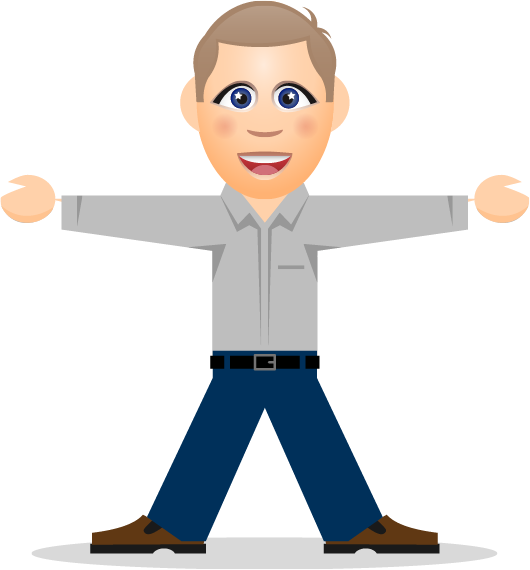
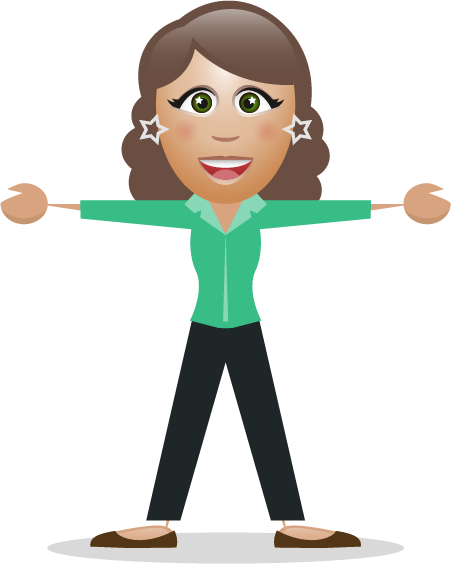
hierarchy fixes

diff --git a/index.html b/index.html
@@ -45,9 +45,9 @@
           <h1>Vide-o-Magic 3000</h1>
 
           <div class="question">
-            <h3>Instructions</h3>
+            <h4>Instructions</h4>
             <p>Fill out this form to the best of your knowledge. If you're not sure about a response, leave the field blank and contact your client services representative. We'll use your responses to create a <a href="#">custom educational video</a> for
-              your study.
+              your study.</p>
           </div>
         </header>
 
@@ -63,12 +63,12 @@
 
             <div class="question">
               <section class="uploads">
-                <h3>Uploads</h3>
+                <h2>Uploads</h2>
                 <p>Upload a high resolution study logo image.</p>
                 <p>Acceptable file types are JPG, GIF, PNG, SVG and EPS. <i class="material-icons">help</i></p>
                 <div class="image-upload" />
-                <p class="drag">Drag an image here or <a href="#">browse</a> for an image to upload.</div>
-            </p>
+                <p class="drag">Drag an image here or <a href="#">browse</a> for an image to upload.</p>
+            </div>
             <p>Upload a photo of the study drug(s).</p>
             <div class="image-upload" />
             <p class="drag">Drag an image here or <a href="#">browse</a> for an image to upload.</p>
@@ -81,7 +81,7 @@
         –––––––––––––––––––––––––––––––––––––––––––––––––– -->
 
     <div class="question">
-      <h3>Character Selection</h3>
+      <h2>Character Selection</h2>
       <section class="supastars">
         <p>Select representative doctor and patient characters for your video.</p>
         <p>Doctor gender:</p>
@@ -110,11 +110,11 @@
         <div class="ss-selection-wrapper">
           <div class="ss-selection">
             <input type="radio" name="patient" value="patient-light">
-            <img src="images/patient-light.png" alt="Light-skinned patient" />
+            <img class="female" src="images/patient-light.png" alt="Light-skinned patient" />
           </div>
           <div class="ss-selection">
             <input type="radio" name="patient" value="patient-med">
-            <img src="images/patient-med.png" alt="Medium-skinned patient" />
+            <img class="female" src="images/patient-med.png" alt="Medium-skinned patient" />
           </div>
           <div class="ss-selection">
             <input type="radio" name="patient" value="patient-dk">
@@ -128,73 +128,72 @@
         –––––––––––––––––––––––––––––––––––––––––––––––––– -->
 
     <section class="script">
-      <h2>Video Script</h2>
 
       <!-- Overview
         –––––––––––––––––––––––––––––––––––––––––––––––––– -->
       <div class="question">
-        <h3>Introduction</h3>
+        <h2>Video Script</h2>
+        <h3>Overview</h3>
+        <h4>Introduction</h4>
         <p class="script">Hi. This iPad is a learning device for people like you who may be interested in participating in clinical research studies. Over the next several minutes, this video will explain the details of a study you’re being invited to take part in, and
           help you make a decision about whether you’d like to participate in the study. You’ll learn about your rights and responsibilities, the required study procedures, and the possible risks and benefits of your participation.</p>
 
-        <h3>Knowledge Review</h3>
+        <h4>Knowledge Review</h4>
         <p>
           Will participants be required to take a knowledge review as a part of the informed consent process?</p>
-        <input type="radio" name="kr" value="yes">Yes
-        <input type="radio" name="kr" value="no">No
-      </div>
+        <p><input type="radio" name="kr" value="yes">Yes
+        <input type="radio" name="kr" value="no">No</p>
 
-      <div class="question">
-        <h3>Sponsor</h3>
+
+        <h4>Sponsor</h4>
         <p class="script">
           This research study is sponsored by
           <input type="text" name="study-sponsor" placeholder="name of study sponsor">.</p>
-      </div>
 
-      <div class="question"><h3>Diagnosis</h3>
-      <p class="script">You’re being invited to take part in this study because
-        <textarea name="diagnosis" placeholder="you have been diagnosed with cystic fibrosis."></textarea></p></div>
 
-      <div class="question"><h3>Purpose</h3>
-      <p class="script">The purpose of this study is to
-        <textarea name="purpose" placeholder="find out about the potential benefits and risks of dectixeze as an add-on treatment for cystic fibrosis."></textarea></p></div>
+        <h4>Diagnosis</h4>
+        <p class="script">You’re being invited to take part in this study because
+          <textarea name="diagnosis" placeholder="you have been diagnosed with cystic fibrosis."></textarea></p>
 
-      <div class="question"><h3>Drug Description</h3>
-      <p class="script"><textarea name="drug-description" placeholder="Dectixeze is an “investigational drug”, which means that it is being researched for FDA approval. This drug is not yet for sale in the United States."></textarea></p></div>
+        <h4>Purpose</h4>
+        <p class="script">The purpose of this study is to
+          <textarea name="purpose" placeholder="find out about the potential benefits and risks of dectixeze as an add-on treatment for cystic fibrosis."></textarea></p>
 
-      <div class="question">
-        <h3>Participants</h3>
-        <p class="script">About</p>
-        <input type="number" name="participants" placeholder="330">participants will take part in this study in the
-        <select name="countries">
-                  <option value="united-states">United States</option>
+        <h4>Drug Description</h4>
+        <p class="script"><textarea name="drug-description" placeholder="Dectixeze is an “investigational drug”, which means that it is being researched for FDA approval. This drug is not yet for sale in the United States."></textarea></p>
+
+
+        <h4>Participants</h4>
+        <p class="script">About <input type="number" name="participants" placeholder="330"> participants will take part in this study in
+          <select name="countries">
+                  <option value="united-states">the United States</option>
                   <option value="india">India</option>
                   <option value="china">China</option>
                   <option value="uk">United Kingdom</option>
-                </select>
-        <a class="add" href="#"><i class="material-icons">add_circle</i></a>
-      </div>
+                </select> .
+          <a class="add" href="#"><i class="material-icons">add_circle</i></a>
 
-      <div class="question">
-        <h3>Randomization</h3>
-        <p class="script">How many treatment groups will be in this study? For example, if one drug is being studied alongside a placebo, select "2".</p><input type="number" name="treatment-groups" placeholder="2">
+          <h4>Randomization</h4>
+          <p class="script">How many treatment groups will be in this study? For example, if one drug is being studied alongside a placebo, select "2".</p><input type="number" name="treatment-groups" placeholder="2">
       </div>
     </section>
 
     <!-- Informed Consent
         –––––––––––––––––––––––––––––––––––––––––––––––––– -->
 
-    <div class="question">
-      <h3>Sub-Study</h3>
-      <p>Will participants be asked to enroll in a sub-study?</p>
-      <input type="radio" name="sub-study" value="yes">Yes
-      <input type="radio" name="sub-study" value="no">No
-    </div>
+    <section class="informed-consent">
+      <div class="question">
+        <h3>Informed Consent</h3>
+        <h4>Sub-Study</h4>
+        <p>Will participants be asked to enroll in a sub-study?</p>
+        <input type="radio" name="sub-study" value="yes">Yes
+        <input type="radio" name="sub-study" value="no">No
+      </div>
     </section>
 
     <section class="procedure">
       <div class="question">
-        <h3>Length of Participation</h3>
+        <h4>Length of Participation</h4>
         <p class="script">For how long will volunteers participate in the study? </p>
         <textarea name="participation-length" placeholder="between twelve and eighteen weeks"></textarea>
       </div>

diff --git a/css/skeleton.css b/css/skeleton.css
@@ -201,9 +201,9 @@ header h3, p {
 .image-upload {
   width: 46%;
   height: 300px;
-  margin: 0 auto 0 auto;
+  margin: 0 auto 4% auto;
   background-color: #eee;
-  border: 1px solid #1eaedb;
+  border: 1px solid #002855;
   text-align: center;
   padding: 4%;
 }
@@ -267,36 +267,39 @@ h1, h2, h3, h4, h5, h6 {
 }
 
 h1 {
-  font-size: 2.0rem;
+  font-size: 1.9rem;
   line-height: 1.2;
   text-transform: uppercase;
   letter-spacing: 2px;
 }
 
 h2 {
-  font-size: 3.6rem;
+  font-size: 2.3rem;
   font-weight: 700;
   line-height: 1.25;
+  border-bottom: 1px solid #002855;
+  text-transform: uppercase;
 }
 
 h3 {
-  font-size: 1.5rem;
-  font-weight: 700;
+  font-size: 2.3rem;
   line-height: 1.3;
+  font-style: italic;
 }
 
 h4 {
-  font-size: 2.4rem;
+  font-size: 1.5rem;
   line-height: 1.35;
+  font-weight: 700;
 }
 
 h5 {
-  font-size: 1.8rem;
+  font-size: 1rem;
   line-height: 1.5;
 }
 
 h6 {
-  font-size: 1.5rem;
+  font-size: .8rem;
   line-height: 1.6;
 }
 
@@ -308,13 +311,13 @@ h6 {
     font-size: 3.0rem;
   }
   h2 {
-    font-size: 4.2rem;
+    font-size: 2.3rem;
   }
   h3 {
-    font-size: 1.5rem;
+    font-size: 2.3rem;
   }
   h4 {
-    font-size: 3.0rem;
+    font-size: 1.5rem;
   }
   h5 {
     font-size: 2.4rem;
